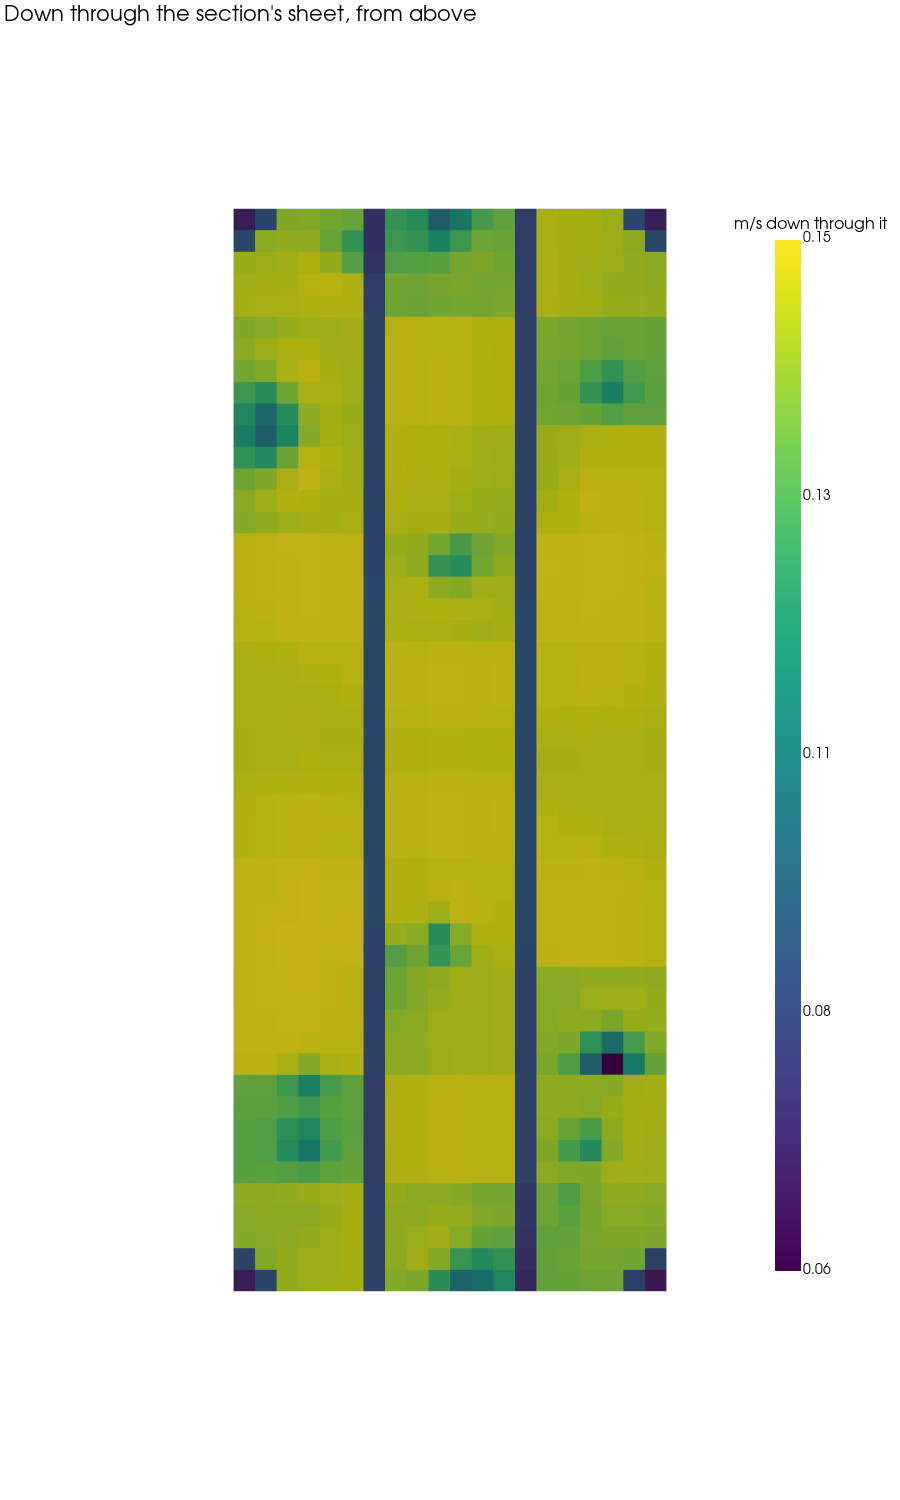
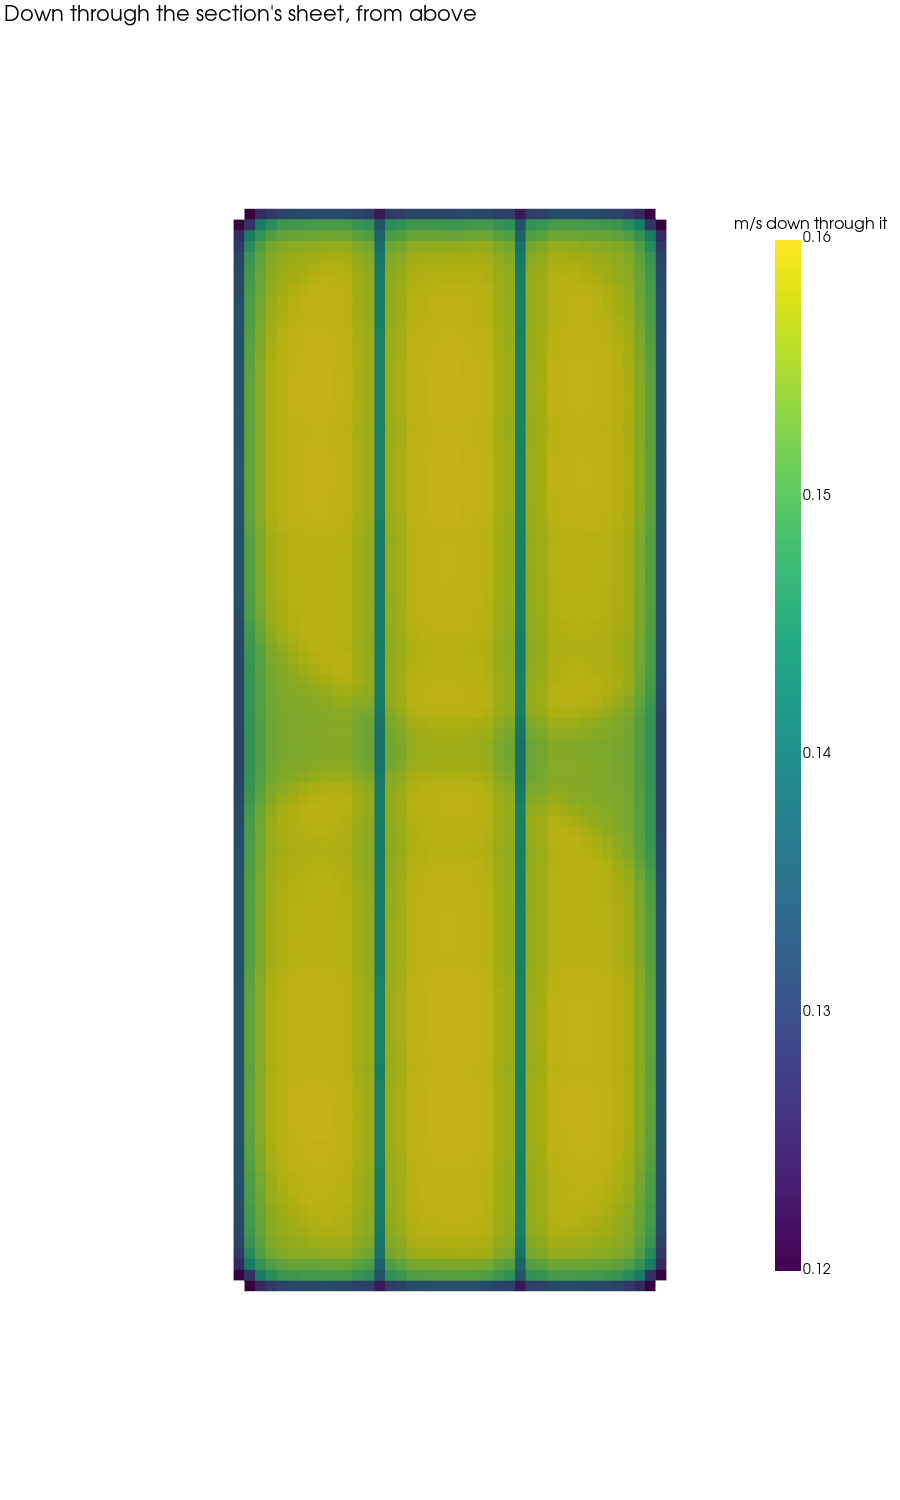
docs(bentobox): the airflow checked on a 1 mm mesh
The section's case on 1 mm cells instead of 2 (1.50 million cells,
2500 iterations, 2 h 23 min on 14 cores): the filtered air comes out
3.5 % lower, 0.65 L/s instead of 0.68, the lumped model's figure to
0.2 %. The cover, the HEPA's ledge, the housing's floor, the sheet and
the fan case's floor carry the same air to 0.05 %, and drifted under
0.1 % over the last quarter. The build page keeps the 2 mm table, so
its three cases compare like for like, and says its flows read about
3 % generous.

The sheet's statistics and picture now come from the 1 mm run: 0.15
m/s on average, nowhere below 0.12, a little less over the grid's two
long ribs. The run's own plane through the sheet sat on the cells'
centres and read 0.90 L/s; summary-section-fine.json carries the
re-measured 0.65 and says why.

The build page said the HEPA paper this build has does not fit. The
holder's pocket is straight for 15.6 mm above the ledge and flares
above that, so a 20 mm pack stands in it; it needs a frame to seal its
cut edges, which this remix does not have.

Changed region(s): [[0.2489, 0.1227, 0.7467, 0.8587]]

diff --git a/docs/bentobox-scrubber.md b/docs/bentobox-scrubber.md
@@ -9,8 +9,10 @@ side, at the floor. It is built for the two Delta EFB0412VHD this build has, 40 
 
 ![The stack pulled apart: the cover, the HEPA holder, the carbon housing with the C-MAG in it, the section, the fan case, the duct](bentobox/exploded.png)
 
-**It needs bought HEPA:** an 80 × 40 × 15 mm cartridge, which rests on a ledge in its holder. The HEPA paper
-this build already has is pleated 20 mm deep and does not fit.
+**It takes its HEPA as a cartridge:** a bought one, 80 × 40 × 15 mm, rests on a ledge in its holder. The
+HEPA paper this build already has, pleated 20 mm deep, fits only in a frame of its own: the pocket's walls
+run straight for 15.6 mm above the ledge and its ends flare out above that, so a 20 mm pack stands in it,
+but nothing would seal its cut edges. This remix has no such frame.
 
 The remix adds one part, and changes nothing of the original:
 
@@ -98,15 +100,20 @@ measurement. How it is built and every assumption in it: [`sim/bentobox-cfd/`](.
   model gives 0.79 L/s with the section, and the simulation would come out near 0.8: three fifths of the
   LunchBox's air rather than half.
 - **The section costs little**: 1.5 % of the flow in the simulation, 4 % by the lumped model. The two
-  differ by about as much as the meshes of two cases do. Its sheet is evenly loaded, 0.14 m/s on average,
-  except over the grid's two long ribs.
+  differ by about as much as the meshes of two cases do. Its sheet is evenly loaded: 0.15 m/s on average,
+  nowhere below 0.12, a little less over the grid's two long ribs (on the 1 mm mesh, below).
 
-  ![The section's sheet from above: evenly loaded but for two strips over the grid's long ribs](bentobox/cfd/sheet.png)
+  ![The section's sheet from above, on the 1 mm mesh: evenly loaded, a little less over the grid's two long ribs](bentobox/cfd/sheet.png)
 - **Filling the C-MAG's trays full costs a seventh of the flow and quadruples the carbon**: 222 cm³ instead
   of 55, more than the LunchBox's 150, and the air spends nearly five times as long in it. The carbon is
   not what limits this box's flow, so carbon here is cheap.
 - **No leaks.** The air in at the cover and out at the duct agree to within 2 %, and to 1 % on every plane
   between them, and nothing gets round the C-MAG. Unlike the LunchBox, there is nothing to seal.
+- **Checked on a finer mesh** (1 mm instead of 2, with the section): the air through the filters comes out
+  3.5 % lower, **0.65 L/s** instead of 0.68 - the lumped model's figure - and the chamber goes through it
+  every 4.6 minutes. The cover, the HEPA's ledge, the housing's floor, the sheet and the fan case's floor
+  now carry the same air to within 0.05 %. The other two cases are likely high by about as much, so read
+  the table's flows as about 3 % generous; its comparisons between them stand.
 - **None of its own air comes back in.** The duct throws the fans' air out along the floor, and the inlet
   is on top, 23 cm above it: in the air modelled round the box, none of it gets back there. A real
   chamber's walls turn it, so take it as a sign, not a number, as on the LunchBox's page.

diff --git a/sim/bentobox-cfd/README.md b/sim/bentobox-cfd/README.md
@@ -42,7 +42,8 @@ uv run --project sim/bentobox-cfd sim/bentobox-cfd/cfd.py case [--plain] [--fine
 uv run --project sim/bentobox-cfd sim/bentobox-cfd/post.py section [--out docs/bentobox/cfd]
 ```
 
-`--plain` is the stack as designed, without the section. A 2 mm case is about 380,000 cells.
+`--plain` is the stack as designed, without the section. A 2 mm case is about 380,000 cells; a 1 mm one,
+`--fine`, 1.5 million, and it runs 2500 iterations.
 
 ## A porous zone's thickness is the mesh's, unless it is made not to be
 
@@ -68,7 +69,15 @@ The LunchBox's list, and:
 - **Every flow plane agrees**: the cover, under the HEPA, the housing's floor, the fan case's floor and the
   duct's outlet carry the same air, unless `inflow_by_face_L_s` names where the difference goes in or out.
   That one sums a closed box 3 mm round the scrubber; it is a coarse locator, closing to a few per cent.
-- **The mesh check**: on the LunchBox, a 1 mm run moved the filtered flow by 2 %. Here nearly all of the
-  pressure drop is in porous zones whose resistance is set exactly, whatever the mesh, and the 2 mm runs
-  agree with the lumped model, which has no mesh, within 1 to 4 %. A 1 mm run, `--fine`, is about 2 million cells
-  and some two and a half hours on 14 cores.
+- **The mesh check**: the section's case on the 1 mm mesh, 1.50 million cells, 2500 iterations, 2 h 23 min
+  on 14 cores (`summary-section-fine.json` in `docs/bentobox/cfd/`). The filtered flow comes out 3.5 % lower
+  than on 2 mm, 0.653 L/s at the cover instead of 0.676, and equal to the lumped model's 0.654 within
+  0.2 %; it drifted under 0.1 % over the last quarter on every filter-side plane, and those planes and the
+  fan case's floor agree to 0.05 %. The duct's plane reads 1.5 % low, in the fans' wake as before.
+- **A measuring plane must miss the cells' centres as well as their faces**: a face is caught when the
+  line between its two cells' centres crosses the plane, so a plane through a row of centres catches two
+  rows of faces, or part of them. The 1 mm run's plane through the sheet sat on its cells' centres, at
+  90.5 mm, and read 0.90 L/s of the 0.65 that passes it; re-measured afterwards at 90.75 mm it reads the
+  inlet's flow exactly, and the summary carries that value and says so. `off_grid()` now nudges a plane
+  off both. A 2 mm case written again therefore has its planes under the HEPA and through the sheet a
+  fraction of a millimetre from where the committed results measured them; the results stand.
